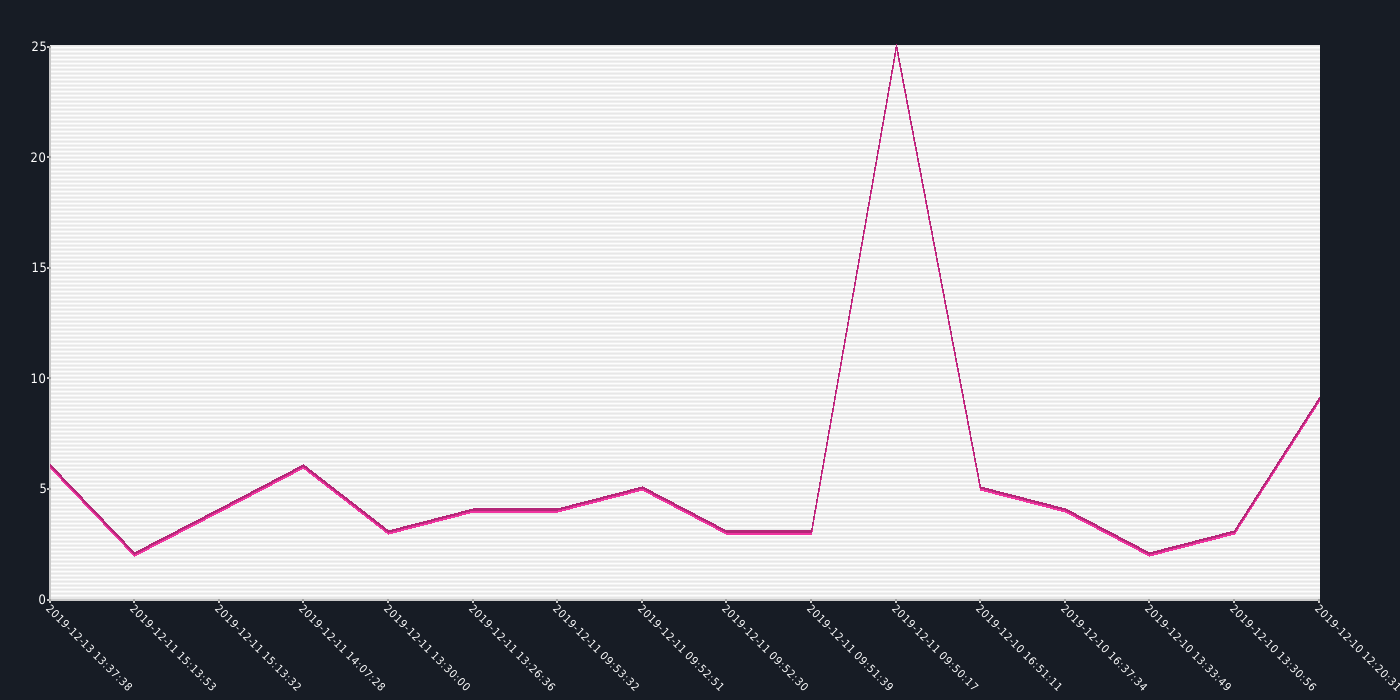
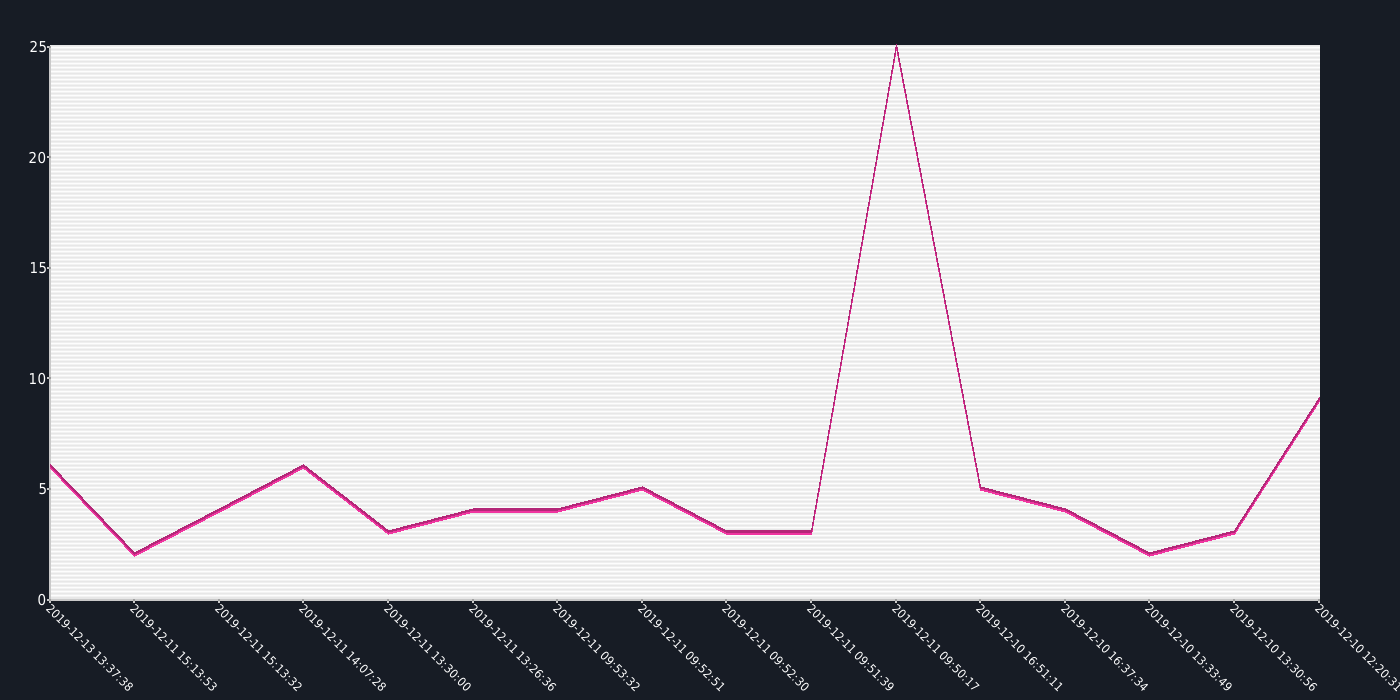
Made chart images responsive

diff --git a/public_php/CTEC3110-Coursework/css/standard.css b/public_php/CTEC3110-Coursework/css/standard.css
@@ -211,3 +211,12 @@ hr {width:100%;height:1px;}
     0% { transform: rotate(0deg); }
     100% { transform: rotate(360deg); }
 }
+
+/***********************************************/
+/* img styles                              */
+/***********************************************/
+
+.chart {
+    max-width: 100%;
+    height: auto;
+}

diff --git a/includes/libchart/classes/view/text/Text.php b/includes/libchart/classes/view/text/Text.php
@@ -61,7 +61,7 @@
                 $align |= $this->VERTICAL_TOP_ALIGN;
             }
 
-            $fontSize = 10;
+            $fontSize = 11;
             $lineSpacing = 1;
 
              list ($llx, $lly, $lrx, $lry, $urx, $ury, $ulx, $uly) = imageftbbox($fontSize, 0, $fontFileName, $text, array("linespacing" => $lineSpacing));
@@ -113,7 +113,7 @@
          * @param string text value
          */
         public function printDiagonal($img, $px, $py, $color, $text) {
-            $fontSize = 8;
+            $fontSize = 9;
             $fontFileName = $this->fontCondensed;
 
             $lineSpacing = 1;
